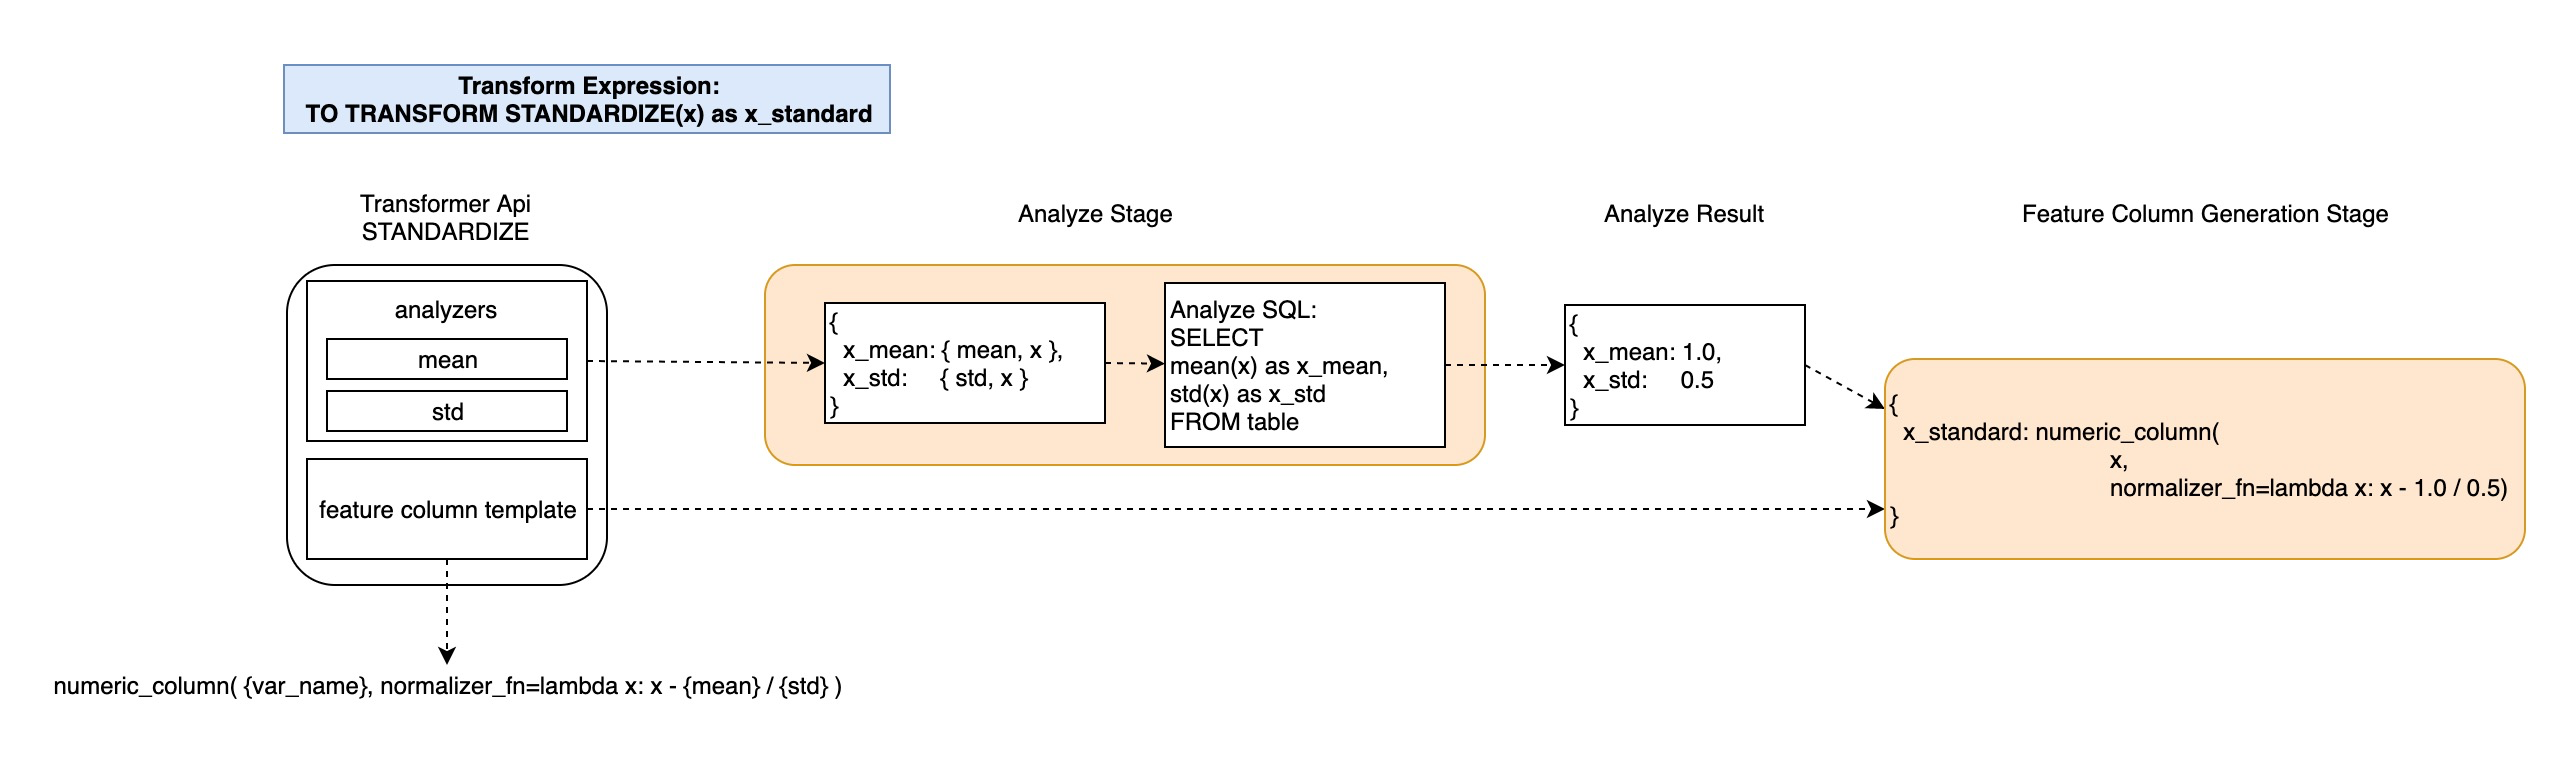
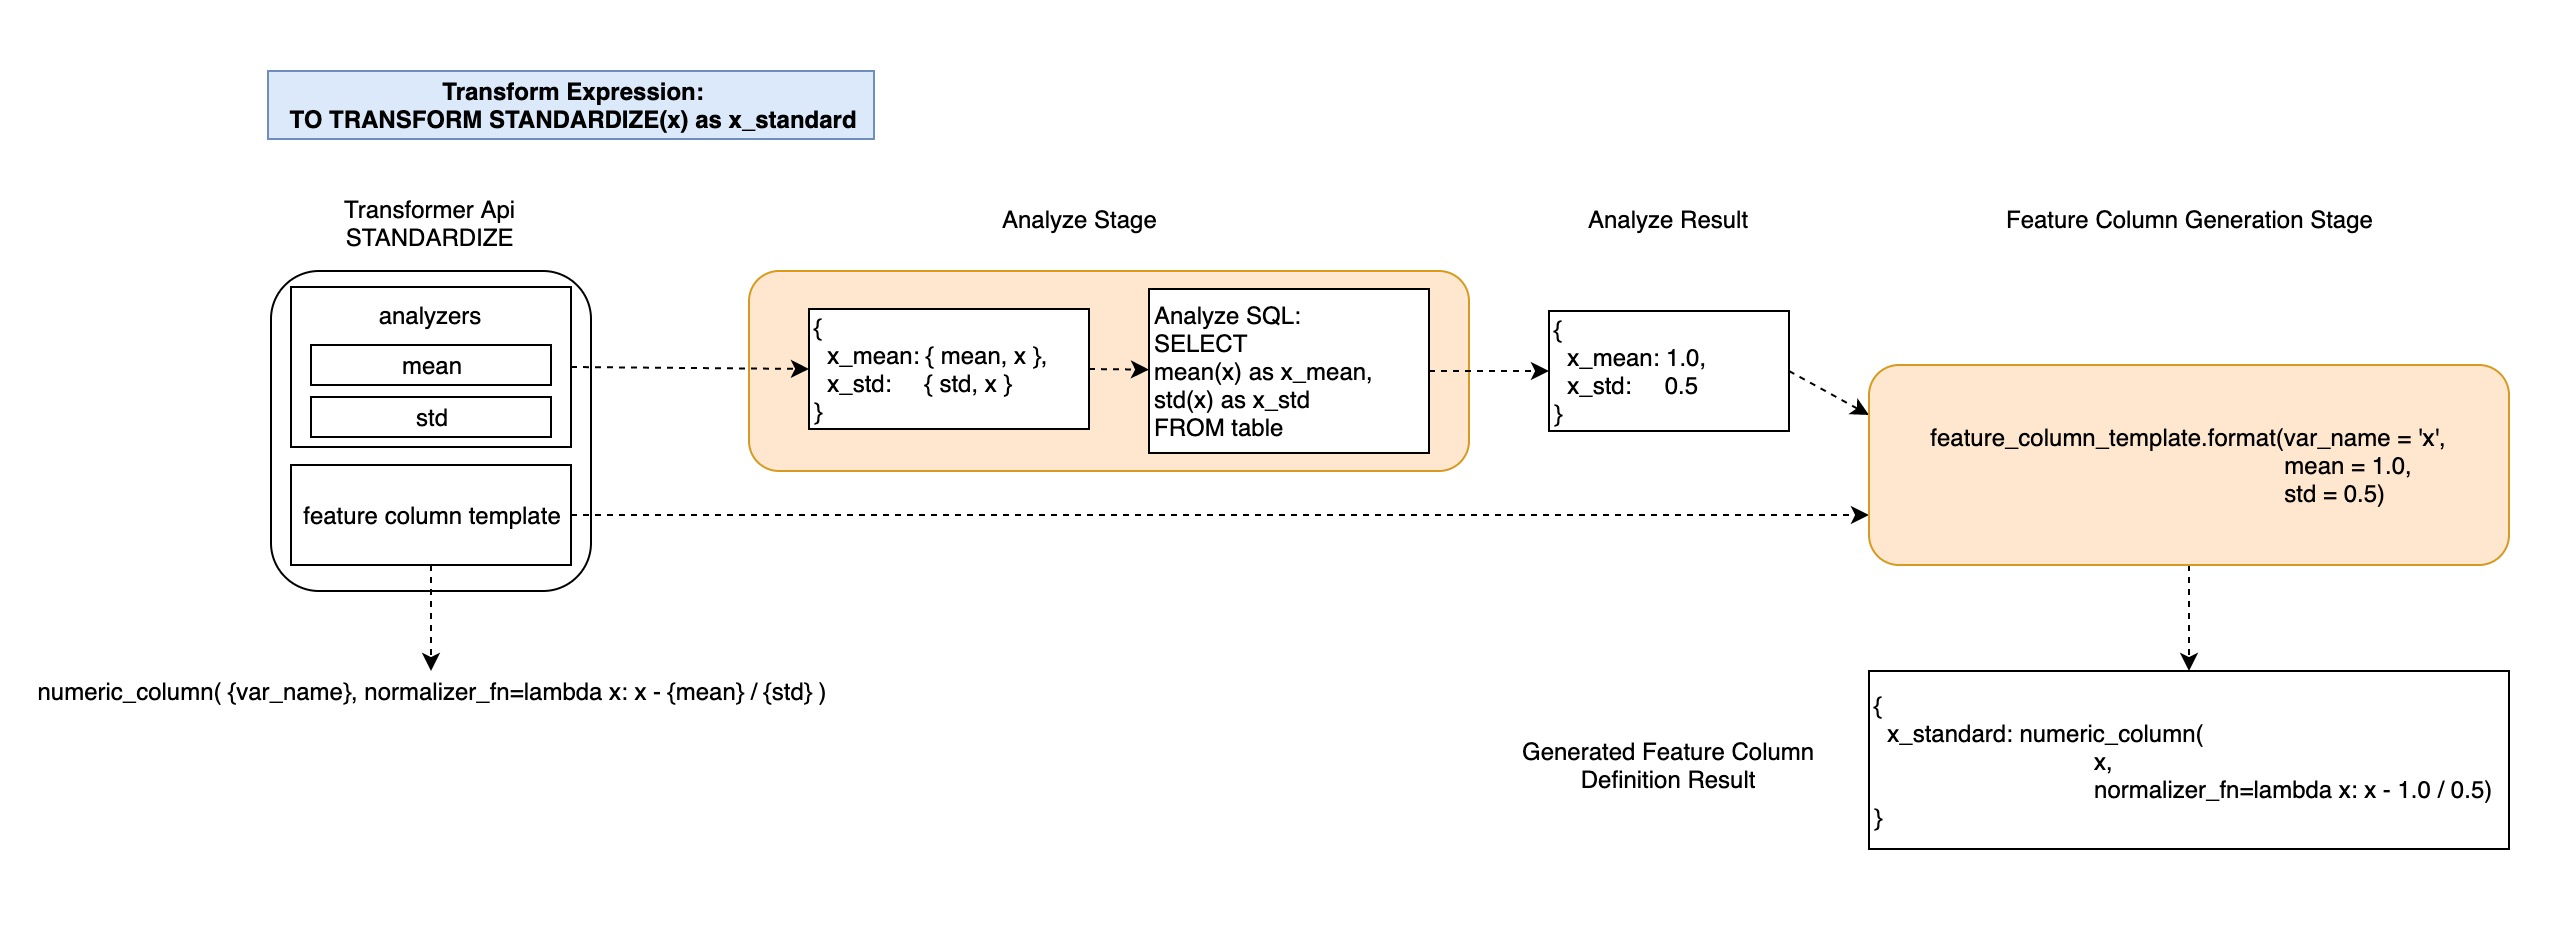
Add more description

diff --git a/docs/designs/data_transform.md b/docs/designs/data_transform.md
@@ -12,24 +12,27 @@ Consistency between offline and online is the key point of data transformation. 
 
 ## Transform Syntax in SQLFlow
 
-We can extend the SQLFlow syntax and add **TO TRANSFORM** keyword to describe the transform process. Let's take the following SQL expression for example: **TO TRANSFORM NORMALIZE(age) as age_norm, STANDARDIZE(capital_gain) as capital_gain_std, BUCKETIZED(hours_per_week, bucket_num=10) as hours_per_week_bkt**. Normalize the column *age* to the column *age_norm*, standardize the column *capital_gain* to *capital_gain_std*, bucketize the column *hours_per_week* to 10 buckets to the column *hours_per_week_bkt*. The output of transform will be passed to the **COLUMN** expression.  
+We can extend the SQLFlow syntax and add **TO TRANSFORM** keyword to describe the transform process. Let's take the following SQL expression for example: **TO TRANSFORM STANDARDIZE(age) as age_std, NORMALIZE(capital_gain) as capital_gain_norm, BUCKETIZED(hours_per_week, bucket_num=10) as hours_per_week_bkt**. Standardize the column *age* to the column *age_std*, normalize the column *capital_gain* to *capital_gain_norm*, bucketize the column *hours_per_week* to 10 buckets to the column *hours_per_week_bkt*. The output of transform will be passed to the **COLUMN** expression.  
 We add some builtin transform Api and users can use them directly in the TRANSFORM expression. The Api set contains NORMALIZE, STANDARDIZE, BUCKETIZED, LOG and more to be added in the future.  
 
 ```SQL
 SELECT *
 FROM census
-TO TRANSFORM NORMALIZE(age) as age_norm, STANDARDIZE(capital_gain) as capital_gain_std, BUCKETIZED(hours_per_week, bucket_num=10) as hours_per_week_bkt
+TO TRANSFORM STANDARDIZE(age) as age_std, NORMALIZE(capital_gain) as capital_gain_norm, BUCKETIZED(hours_per_week, bucket_num=10) as hours_per_week_bkt
 TO TRAIN DNNClassifier
 WITH model.hidden_units = [10, 20]
-COLUMNS NUMERIC(age_norm), NUMERIC(capital_gain_std), EMBEDDING(hours_per_week_bkt, dim=128)
+COLUMNS NUMERIC(age_std), NUMERIC(capital_gain_norm), EMBEDDING(hours_per_week_bkt, dim=128)
 LABEL label
 ```
 
 ## Design
 
 Data transformation contains two stages: analyze and transform. In our design, we will do the transform work using feature column along with the model training process. As a result, we will replace the transform stage with the feature column generation stage.  
-We choose to convert the **TRANSFORM** expression into two steps in couler work flow: analyze and feature column generation. Let's take STANDARDIZE for example, the following figure describe how the data transform pipeline works.  
+We choose to convert the **TRANSFORM** expression into two steps in couler work flow: analyze and feature column generation. Let's take STANDARDIZE(age) for example, the following figure describe how the data transform pipeline works.  
 
 ![transform_steps](../images/transform_steps.png)
 
-A transform api contains two members: analyzers and feature column template. Analyer is the statistical operation which needs run at first to complement the whole transform logic. After completing all the statistical operation, we will format based on the feature column template to get the integral feature column definition for the transform logic.  
+The **Analyze Stage** and **Feature Column Generation Stage** are two couler steps. Analyze Result and Generated Feature Column Definition Result are the output of the couler step.  
+
+A transform api contains two members: analyzers and feature column template. Analyer is the statistical operation which needs run at first to complement the whole transform logic. After completing all the statistical operation, we will format the feature column template with variable name and stastical values to get the integral feature column definition for the transform logic.  
+The generated feature column definitions will be passed to the next couler step: model training. We combines them with the COLUMN expression to generated the final feature column definitions and then pass to the model. Let's take **COLUMNS NUMERIC(age_std)** for example, the final definition will be **numeric_column('age', normalizer_fn=lambda x: x - 18.0 / 6.0)**  
